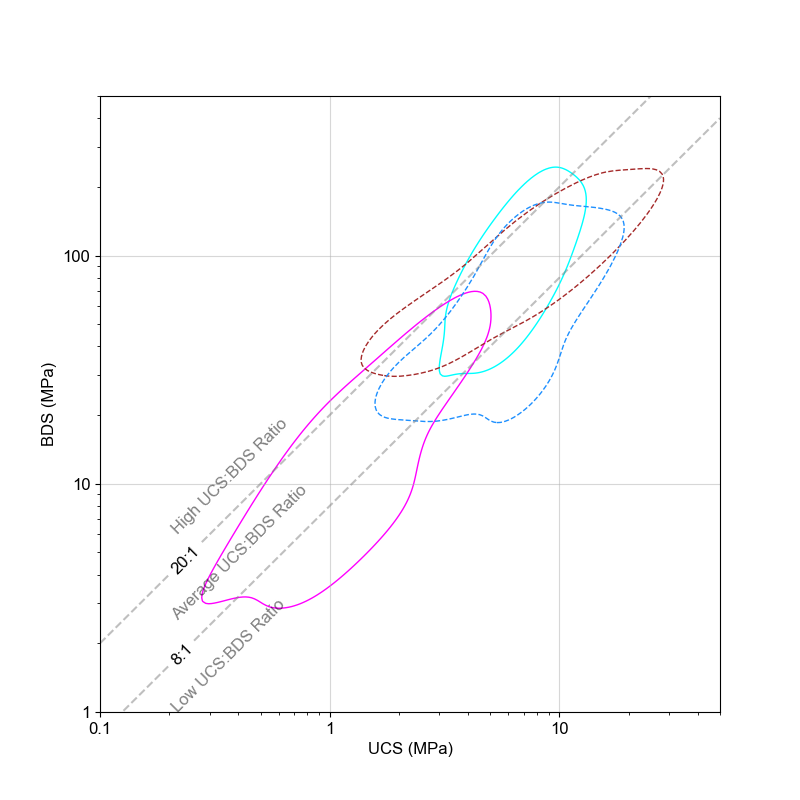
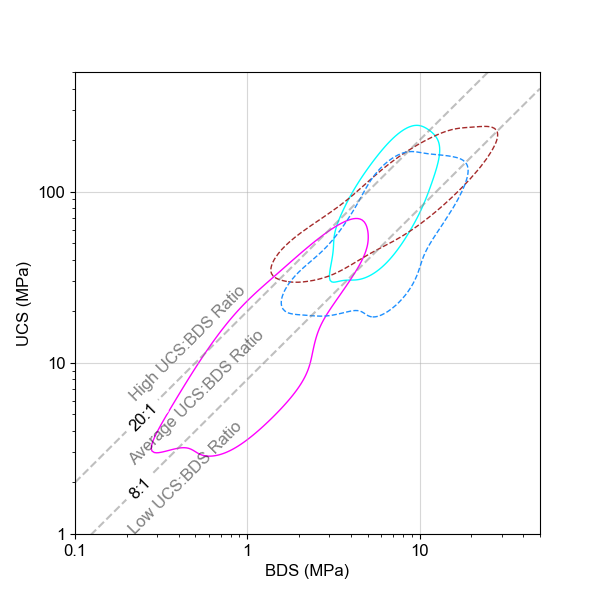
More clarity on the Readme.md Fixed bud in UCS/BDS plot

diff --git a/pyrockmodulus/test/plotting_options.py b/pyrockmodulus/test/plotting_options.py
@@ -37,8 +37,8 @@ import matplotlib.pyplot as plt
 
 xx = pyrockmodulus.strength_ratio()
 xx.initial_processing(plot_all_clusters=False, rock_type_to_plot='Sedimentary')
-plt.ylabel("BDS (MPa)")
-plt.xlabel("UCS (MPa)")
+plt.ylabel("UCS (MPa)")
+plt.xlabel("BDS (MPa)")
 plt.show()
 
 '''

diff --git a/pyrockmodulus/README.md b/pyrockmodulus/README.md
@@ -1,40 +1,42 @@
+The package herein helps visualise the relationship between the uniaxial compressive strength (UCS), Young's Modulus (E), and the in-direct tensile strength, commonly known as the Brazilian Disc (BD). The Modulus Ratio (MR) [[1]](#1) is the correlation between the UCS and E while the Strength Ratio (SR) [[2]](#2) is the correlation between the BD and UCS.
+
 ## pyrockmodulus.modulus_ratio()
 
-Loads the digitized Deere_Miller clusters and plots them based on the Major Rock Type *(i.e., Igneous / Metamorphic / Sedimentary)*.
-- Plot all Major Rock Type in one graph.
-- Plots them individually.
+Loads the digitized Deere_Miller clusters and plots them based on the major rock type *(i.e., Igneous / Metamorphic / Sedimentary)*. Two options are available to plot his information: 
+- Individually.
+- All major rock types in one figure.
 
-**Deere-Miller [Modulus Ratio] Example**
+**Modulus Ratio [[1]](#1) Example**
 
-1. Plot the Modulus Ratio of just the Sedimentary clusters with the ISRM 1979 category classification. 
+1. Plot the MR of just the Sedimentary clusters with the ISRM 1979 [[3]](#3) category classification.
 ```python
 import pyrockmodulus
 import matplotlib.pyplot as plt
 
-xx = pyrockmodulus.modulus_ratio()
-xx.initial_processing(plot_all_clusters=False, rock_type_to_plot='Sedimentary', ucs_class_type="ISRMCAT\n1979")
+mr_mod_plot = pyrockmodulus.modulus_ratio()
+mr_mod_plot.initial_processing(plot_all_clusters=False, rock_type_to_plot='Sedimentary', ucs_class_type="ISRMCAT\n1979")
 plt.ylabel("E (GPa)")
 plt.xlabel("UCS (MPa)")
 plt.show()
 ```
-![](images/example01.png)
+![](./pyrockmodulus/images/example01.png)
 
-2. Plot the Modulus Ratio with all the categories without the classification. Legend enabled. 
+2. Plot the MR with all the categories without the classification. Legend enabled. 
 
 ```python
 import pyrockmodulus
 import matplotlib.pyplot as plt
 
-xx = pyrockmodulus.modulus_ratio()
-xx.initial_processing(plot_all_clusters=True)
+mr_mod_plot = pyrockmodulus.modulus_ratio()
+mr_mod_plot.initial_processing(plot_all_clusters=True)
 plt.ylabel("E (GPa)")
 plt.xlabel("UCS (MPa)")
 plt.legend()
 plt.show()
 ```
-![](images/example02.png)
+![](./pyrockmodulus/images/example02.png)
 
-3. Plot the Modulus Ratio of just the Sedimentary clusters overlaid with data from tests.
+3. Plot the MR of just the Sedimentary clusters overlaid with data from tests.
 
 ```python
 import pyrockmodulus
@@ -42,22 +44,22 @@ import matplotlib.pyplot as plt
 # Data Set
 ucs_data = [75.33, 99.03, 111.69, 30.17, 73.76, 41.69, 42.09, 60.99, 39.65, 94.52, 104.6, 102.03]
 E_data = [18.31, 21.85, 20.51, 8.62, 25.72, 18.68, 9.2, 14.67, 7.38, 8.48, 8.7, 8.82]
-xx = pyrockmodulus.modulus_ratio()
-plotting_axis = xx.initial_processing(rock_type_to_plot='Sedimentary')
+mr_mod_plot = pyrockmodulus.modulus_ratio()
+mr_mod_axis = mr_mod_plot.initial_processing(rock_type_to_plot='Sedimentary')
 # Plot the data on the Deere-Miller axis
-plotting_axis.scatter(ucs_data, E_data, label='Test Results', marker='.')
+mr_mod_axis.scatter(ucs_data, E_data, label='Test Results', marker='.')
 plt.ylabel("E (GPa)")
 plt.xlabel("UCS (MPa)")
 plt.legend()
 plt.show()
 ```
- ![](images/example_withdata.png)
+ ![](./pyrockmodulus/images/example_withdata.png)
 
 ## pyrockmodulus.strength_ratio()
 
-Loads the constructed Tatone et al. UCS:BDS clusters and plots them based on the Major Rock Type *(i.e., Igneous / Metamorphic / Sedimentary)*.
-- Plot all Major Rock Type in one graph.
-- Plots them individually.
+Loads the constructed Strength Ratio clusters [[2]](#2) and plots them based on the major rock type *(i.e., Igneous / Metamorphic / Sedimentary)*. Two options are available to plot his information: 
+- Individually.
+- All major rock types in one figure.
 
 The functionality is similar to that of the modulus ratio. 
 
@@ -65,13 +67,13 @@ The functionality is similar to that of the modulus ratio.
 import pyrockmodulus
 import matplotlib.pyplot as plt
 
-xx = pyrockmodulus.strength_ratio()
-xx.initial_processing(plot_all_clusters=False, rock_type_to_plot='Sedimentary')
-plt.ylabel("BDS (MPa)")
-plt.xlabel("UCS (MPa)")
+sr_mod_plot = pyrockmodulus.strength_ratio()
+sr_mod_plot.initial_processing(plot_all_clusters=False, rock_type_to_plot='Sedimentary')
+plt.ylabel("UCS (MPa)")
+plt.xlabel("BDS (MPa)")
 plt.show()
 ```
-![](images/example06.png)
+![](./pyrockmodulus/images/example06.png)
 
 ## pyrockmodulus.poisson_density()
 
@@ -80,19 +82,19 @@ Plot the most common ranges of density and poisson's ratio for rock. This data c
 ```python
 import matplotlib.pyplot as plt
 import pyrockmodulus
-xx = pyrockmodulus.poisson_density()
-df_data = xx.initial_processing()
-ax1 = xx.plot_span_chart(df_data, ['Min_D', 'Max_D'], 'Density', r'$\rho$ g/cm$^{3}$')
+poi_den = pyrockmodulus.poisson_density()
+df_data = poi_den.initial_processing()
+ax1 = poi_den.plot_span_chart(df_data, ['Min_D', 'Max_D'], 'Density', r'$\rho$ g/cm$^{3}$')
 ax1.axvline(2.0, lw=1, ls='--')
 plt.show()
 ```
 
-![](images/example_PR_DEN.png)
+![](./pyrockmodulus/images/example_PR_DEN.png)
 
 ## UCS_Descriptions.py
 
 This file holds the dictionaries for the various UCS classification systems available. References for those systems are within the file. All values **must** be in **MPa**.
-Avaliable classificatin systems 'ISRM\n1977', 'ISRMCAT\n1979', 'Bieniawski\n1974', 'Jennings\n1973', 'Broch & Franklin\n1972', 'Geological Society\n1970', 'Deere & Miller\n1966', 'Coates\n1964', 'Coates & Parsons\n1966', 'ISO 14689\n2017', 'Anon\n1977', 'Anon\n1979', 'Ramamurthy\n2004'
+Avaliable classificatin systems 'ISRMCAT\n1979' [[3]](#3), 'Bieniawski\n1974' [[4]](#4), 'Jennings\n1973' [[5]](#5), 'Broch & Franklin\n1972' [[6]](#6), 'Geological Society\n1970', 'Deere & Miller\n1966' [[7]](#7), 'Coates\n1964' [[8]](#8), 'Coates & Parsons\n1966' [[9]](#9), 'ISO 14689\n2017' [[10]](#10), 'Anon\n1977' [[11]](#11), 'Anon\n1979' [[12]](#12), 'Ramamurthy\n2004' [[13]](#13)
 
 **UCS Classification System Examples** 
 
@@ -115,5 +117,44 @@ import matplotlib.pyplot as plt
 ucs_class = ucs_classification_plot.initial_processing()
 plt.show()
 ```
-![](images/example04.png)
+![](./pyrockmodulus/images/example04.png)
 
+## References
+<a id="1">[1]</a> 
+Deere D, Miller R (1966) Engineering classification and index properties for intact rock. Tech. Report No AFWL - TR-65-116. Air Force Weapons Lab., Kirtland Air Base, New Mexico.
+
+<a id="2">[2]</a>
+Tatone, B.S.A., Abdelaziz, A. & Grasselli, G. Novel Mechanical Classification Method of Rock Based on the Uniaxial Compressive Strength and Brazilian Disc Strength. Rock Mech Rock Eng 55, 2503–2507 (2022). https://doi.org/10.1007/s00603-021-02759-7
+
+<a id="3">[3]</a>
+ISRM commission on standardization of laboratory and field tests: "Suggested methods for the quantitative description of discontinuities in rock masses" International Journal of Rock Mechanics and Mining Sciences & Geomechanics Abstracts,Volume 15, Issue 6, 1978, Pages 319-368, ISSN 0148-9062, https://doi.org/10.1016/0148-9062(78)91472-9.
+
+<a id="4">[4]</a>
+Bieniawski ZT (1973) Engineering classification of jointed rock masses. The Civil Engineering in Southern Africa 15
+
+<a id="5">[5]</a>
+Jennings JE, Brink ABA, Williams AAB (1973) Revised guide to soil profiling for civil engineering purposes in Southern Africa. The Civil Engineering in Southern Africa 15:3–12. https://doi.org/10.1016/0148-9062(74)91296-0
+
+<a id="6">[6]</a>
+Broch E, Franklin JA (1972) The point-load strength test. Int. J. Rock Mech. Min. Sci. Geomech. Abstr. 9:669–676. https://doi.org/10.1016/0148-9062(72)90030-7
+
+<a id="7">[7]</a>
+Deere & Miller\n1966 = DEERE, D. U. y MILLER, R. P.. Engineering Classification and Index Properties for Intact Rocks. Kirtland Air Force Base, New Mexico: 1966.
+
+<a id="8">[8]</a>
+Coates DF (1964) Classification of rocks for rock mechanics. International Journal of Rock Mechanics and Mining Sciences & Geomechanics Abstracts 1:421–429. https://doi.org/10.1016/0148-9062(64)90008-7
+
+<a id="9">[9]</a>
+Coates DF, Parsons RC (1966) Experimental criteria for classification of rock substances. International Journal of Rock Mechanics and Mining Sciences & Geomechanics Abstracts 3:181–189. https://doi.org/10.1016/0148-9062(66)90022-2
+
+<a id="10">[10]</a>
+ISO 14689:2017 "Geotechnical investigation and testing — Identification, description and classification of rock."
+
+<a id="11">[11]</a>
+Anon, Q. "The description of rock masses for engineering purposes." J Eng Geol 10 (1977): 355-388.
+
+<a id="12">[12]</a>
+Anon, O. H. "Classification of rocks and soils for engineering geological mapping. Part 1: rock and soil materials.".
+
+<a id="13">[13]</a>
+Ramamurthy, T. "A geo-engineering classification for rocks and rock masses." International Journal of Rock Mechanics and Mining Sciences 41.1 (2004): 89-101.

diff --git a/README.md b/README.md
@@ -1,32 +1,34 @@
+The package herein helps visualise the relationship between the uniaxial compressive strength (UCS), Young's Modulus (E), and the in-direct tensile strength, commonly known as the Brazilian Disc (BD). The Modulus Ratio (MR) [[1]](#1) is the correlation between the UCS and E while the Strength Ratio (SR) [[2]](#2) is the correlation between the BD and UCS.
+
 ## pyrockmodulus.modulus_ratio()
 
-Loads the digitized Deere_Miller clusters and plots them based on the Major Rock Type *(i.e., Igneous / Metamorphic / Sedimentary)*.
-- Plot all Major Rock Type in one graph.
-- Plots them individually.
+Loads the digitized Deere_Miller clusters and plots them based on the major rock type *(i.e., Igneous / Metamorphic / Sedimentary)*. Two options are available to plot his information: 
+- Individually.
+- All major rock types in one figure.
 
-**Deere-Miller [Modulus Ratio] Example**
+**Modulus Ratio [[1]](#1) Example**
 
-1. Plot the Modulus Ratio of just the Sedimentary clusters with the ISRM 1979 category classification. 
+1. Plot the MR of just the Sedimentary clusters with the ISRM 1979 [[3]](#3) category classification.
 ```python
 import pyrockmodulus
 import matplotlib.pyplot as plt
 
-xx = pyrockmodulus.modulus_ratio()
-xx.initial_processing(plot_all_clusters=False, rock_type_to_plot='Sedimentary', ucs_class_type="ISRMCAT\n1979")
+mr_mod_plot = pyrockmodulus.modulus_ratio()
+mr_mod_plot.initial_processing(plot_all_clusters=False, rock_type_to_plot='Sedimentary', ucs_class_type="ISRMCAT\n1979")
 plt.ylabel("E (GPa)")
 plt.xlabel("UCS (MPa)")
 plt.show()
 ```
 ![](./pyrockmodulus/images/example01.png)
 
-2. Plot the Modulus Ratio with all the categories without the classification. Legend enabled. 
+2. Plot the MR with all the categories without the classification. Legend enabled. 
 
 ```python
 import pyrockmodulus
 import matplotlib.pyplot as plt
 
-xx = pyrockmodulus.modulus_ratio()
-xx.initial_processing(plot_all_clusters=True)
+mr_mod_plot = pyrockmodulus.modulus_ratio()
+mr_mod_plot.initial_processing(plot_all_clusters=True)
 plt.ylabel("E (GPa)")
 plt.xlabel("UCS (MPa)")
 plt.legend()
@@ -34,7 +36,7 @@ plt.show()
 ```
 ![](./pyrockmodulus/images/example02.png)
 
-3. Plot the Modulus Ratio of just the Sedimentary clusters overlaid with data from tests.
+3. Plot the MR of just the Sedimentary clusters overlaid with data from tests.
 
 ```python
 import pyrockmodulus
@@ -42,10 +44,10 @@ import matplotlib.pyplot as plt
 # Data Set
 ucs_data = [75.33, 99.03, 111.69, 30.17, 73.76, 41.69, 42.09, 60.99, 39.65, 94.52, 104.6, 102.03]
 E_data = [18.31, 21.85, 20.51, 8.62, 25.72, 18.68, 9.2, 14.67, 7.38, 8.48, 8.7, 8.82]
-xx = pyrockmodulus.modulus_ratio()
-plotting_axis = xx.initial_processing(rock_type_to_plot='Sedimentary')
+mr_mod_plot = pyrockmodulus.modulus_ratio()
+mr_mod_axis = mr_mod_plot.initial_processing(rock_type_to_plot='Sedimentary')
 # Plot the data on the Deere-Miller axis
-plotting_axis.scatter(ucs_data, E_data, label='Test Results', marker='.')
+mr_mod_axis.scatter(ucs_data, E_data, label='Test Results', marker='.')
 plt.ylabel("E (GPa)")
 plt.xlabel("UCS (MPa)")
 plt.legend()
@@ -55,9 +57,9 @@ plt.show()
 
 ## pyrockmodulus.strength_ratio()
 
-Loads the constructed Tatone et al. UCS:BDS clusters and plots them based on the Major Rock Type *(i.e., Igneous / Metamorphic / Sedimentary)*.
-- Plot all Major Rock Type in one graph.
-- Plots them individually.
+Loads the constructed Strength Ratio clusters [[2]](#2) and plots them based on the major rock type *(i.e., Igneous / Metamorphic / Sedimentary)*. Two options are available to plot his information: 
+- Individually.
+- All major rock types in one figure.
 
 The functionality is similar to that of the modulus ratio. 
 
@@ -65,10 +67,10 @@ The functionality is similar to that of the modulus ratio.
 import pyrockmodulus
 import matplotlib.pyplot as plt
 
-xx = pyrockmodulus.strength_ratio()
-xx.initial_processing(plot_all_clusters=False, rock_type_to_plot='Sedimentary')
-plt.ylabel("BDS (MPa)")
-plt.xlabel("UCS (MPa)")
+sr_mod_plot = pyrockmodulus.strength_ratio()
+sr_mod_plot.initial_processing(plot_all_clusters=False, rock_type_to_plot='Sedimentary')
+plt.ylabel("UCS (MPa)")
+plt.xlabel("BDS (MPa)")
 plt.show()
 ```
 ![](./pyrockmodulus/images/example06.png)
@@ -80,9 +82,9 @@ Plot the most common ranges of density and poisson's ratio for rock. This data c
 ```python
 import matplotlib.pyplot as plt
 import pyrockmodulus
-xx = pyrockmodulus.poisson_density()
-df_data = xx.initial_processing()
-ax1 = xx.plot_span_chart(df_data, ['Min_D', 'Max_D'], 'Density', r'$\rho$ g/cm$^{3}$')
+poi_den = pyrockmodulus.poisson_density()
+df_data = poi_den.initial_processing()
+ax1 = poi_den.plot_span_chart(df_data, ['Min_D', 'Max_D'], 'Density', r'$\rho$ g/cm$^{3}$')
 ax1.axvline(2.0, lw=1, ls='--')
 plt.show()
 ```
@@ -92,7 +94,7 @@ plt.show()
 ## UCS_Descriptions.py
 
 This file holds the dictionaries for the various UCS classification systems available. References for those systems are within the file. All values **must** be in **MPa**.
-Avaliable classificatin systems 'ISRM\n1977', 'ISRMCAT\n1979', 'Bieniawski\n1974', 'Jennings\n1973', 'Broch & Franklin\n1972', 'Geological Society\n1970', 'Deere & Miller\n1966', 'Coates\n1964', 'Coates & Parsons\n1966', 'ISO 14689\n2017', 'Anon\n1977', 'Anon\n1979', 'Ramamurthy\n2004'
+Avaliable classificatin systems 'ISRMCAT\n1979' [[3]](#3), 'Bieniawski\n1974' [[4]](#4), 'Jennings\n1973' [[5]](#5), 'Broch & Franklin\n1972' [[6]](#6), 'Geological Society\n1970', 'Deere & Miller\n1966' [[7]](#7), 'Coates\n1964' [[8]](#8), 'Coates & Parsons\n1966' [[9]](#9), 'ISO 14689\n2017' [[10]](#10), 'Anon\n1977' [[11]](#11), 'Anon\n1979' [[12]](#12), 'Ramamurthy\n2004' [[13]](#13)
 
 **UCS Classification System Examples** 
 
@@ -117,3 +119,42 @@ plt.show()
 ```
 ![](./pyrockmodulus/images/example04.png)
 
+## References
+<a id="1">[1]</a> 
+Deere D, Miller R (1966) Engineering classification and index properties for intact rock. Tech. Report No AFWL - TR-65-116. Air Force Weapons Lab., Kirtland Air Base, New Mexico.
+
+<a id="2">[2]</a>
+Tatone, B.S.A., Abdelaziz, A. & Grasselli, G. Novel Mechanical Classification Method of Rock Based on the Uniaxial Compressive Strength and Brazilian Disc Strength. Rock Mech Rock Eng 55, 2503–2507 (2022). https://doi.org/10.1007/s00603-021-02759-7
+
+<a id="3">[3]</a>
+ISRM commission on standardization of laboratory and field tests: "Suggested methods for the quantitative description of discontinuities in rock masses" International Journal of Rock Mechanics and Mining Sciences & Geomechanics Abstracts,Volume 15, Issue 6, 1978, Pages 319-368, ISSN 0148-9062, https://doi.org/10.1016/0148-9062(78)91472-9.
+
+<a id="4">[4]</a>
+Bieniawski ZT (1973) Engineering classification of jointed rock masses. The Civil Engineering in Southern Africa 15
+
+<a id="5">[5]</a>
+Jennings JE, Brink ABA, Williams AAB (1973) Revised guide to soil profiling for civil engineering purposes in Southern Africa. The Civil Engineering in Southern Africa 15:3–12. https://doi.org/10.1016/0148-9062(74)91296-0
+
+<a id="6">[6]</a>
+Broch E, Franklin JA (1972) The point-load strength test. Int. J. Rock Mech. Min. Sci. Geomech. Abstr. 9:669–676. https://doi.org/10.1016/0148-9062(72)90030-7
+
+<a id="7">[7]</a>
+Deere & Miller\n1966 = DEERE, D. U. y MILLER, R. P.. Engineering Classification and Index Properties for Intact Rocks. Kirtland Air Force Base, New Mexico: 1966.
+
+<a id="8">[8]</a>
+Coates DF (1964) Classification of rocks for rock mechanics. International Journal of Rock Mechanics and Mining Sciences & Geomechanics Abstracts 1:421–429. https://doi.org/10.1016/0148-9062(64)90008-7
+
+<a id="9">[9]</a>
+Coates DF, Parsons RC (1966) Experimental criteria for classification of rock substances. International Journal of Rock Mechanics and Mining Sciences & Geomechanics Abstracts 3:181–189. https://doi.org/10.1016/0148-9062(66)90022-2
+
+<a id="10">[10]</a>
+ISO 14689:2017 "Geotechnical investigation and testing — Identification, description and classification of rock."
+
+<a id="11">[11]</a>
+Anon, Q. "The description of rock masses for engineering purposes." J Eng Geol 10 (1977): 355-388.
+
+<a id="12">[12]</a>
+Anon, O. H. "Classification of rocks and soils for engineering geological mapping. Part 1: rock and soil materials.".
+
+<a id="13">[13]</a>
+Ramamurthy, T. "A geo-engineering classification for rocks and rock masses." International Journal of Rock Mechanics and Mining Sciences 41.1 (2004): 89-101.
